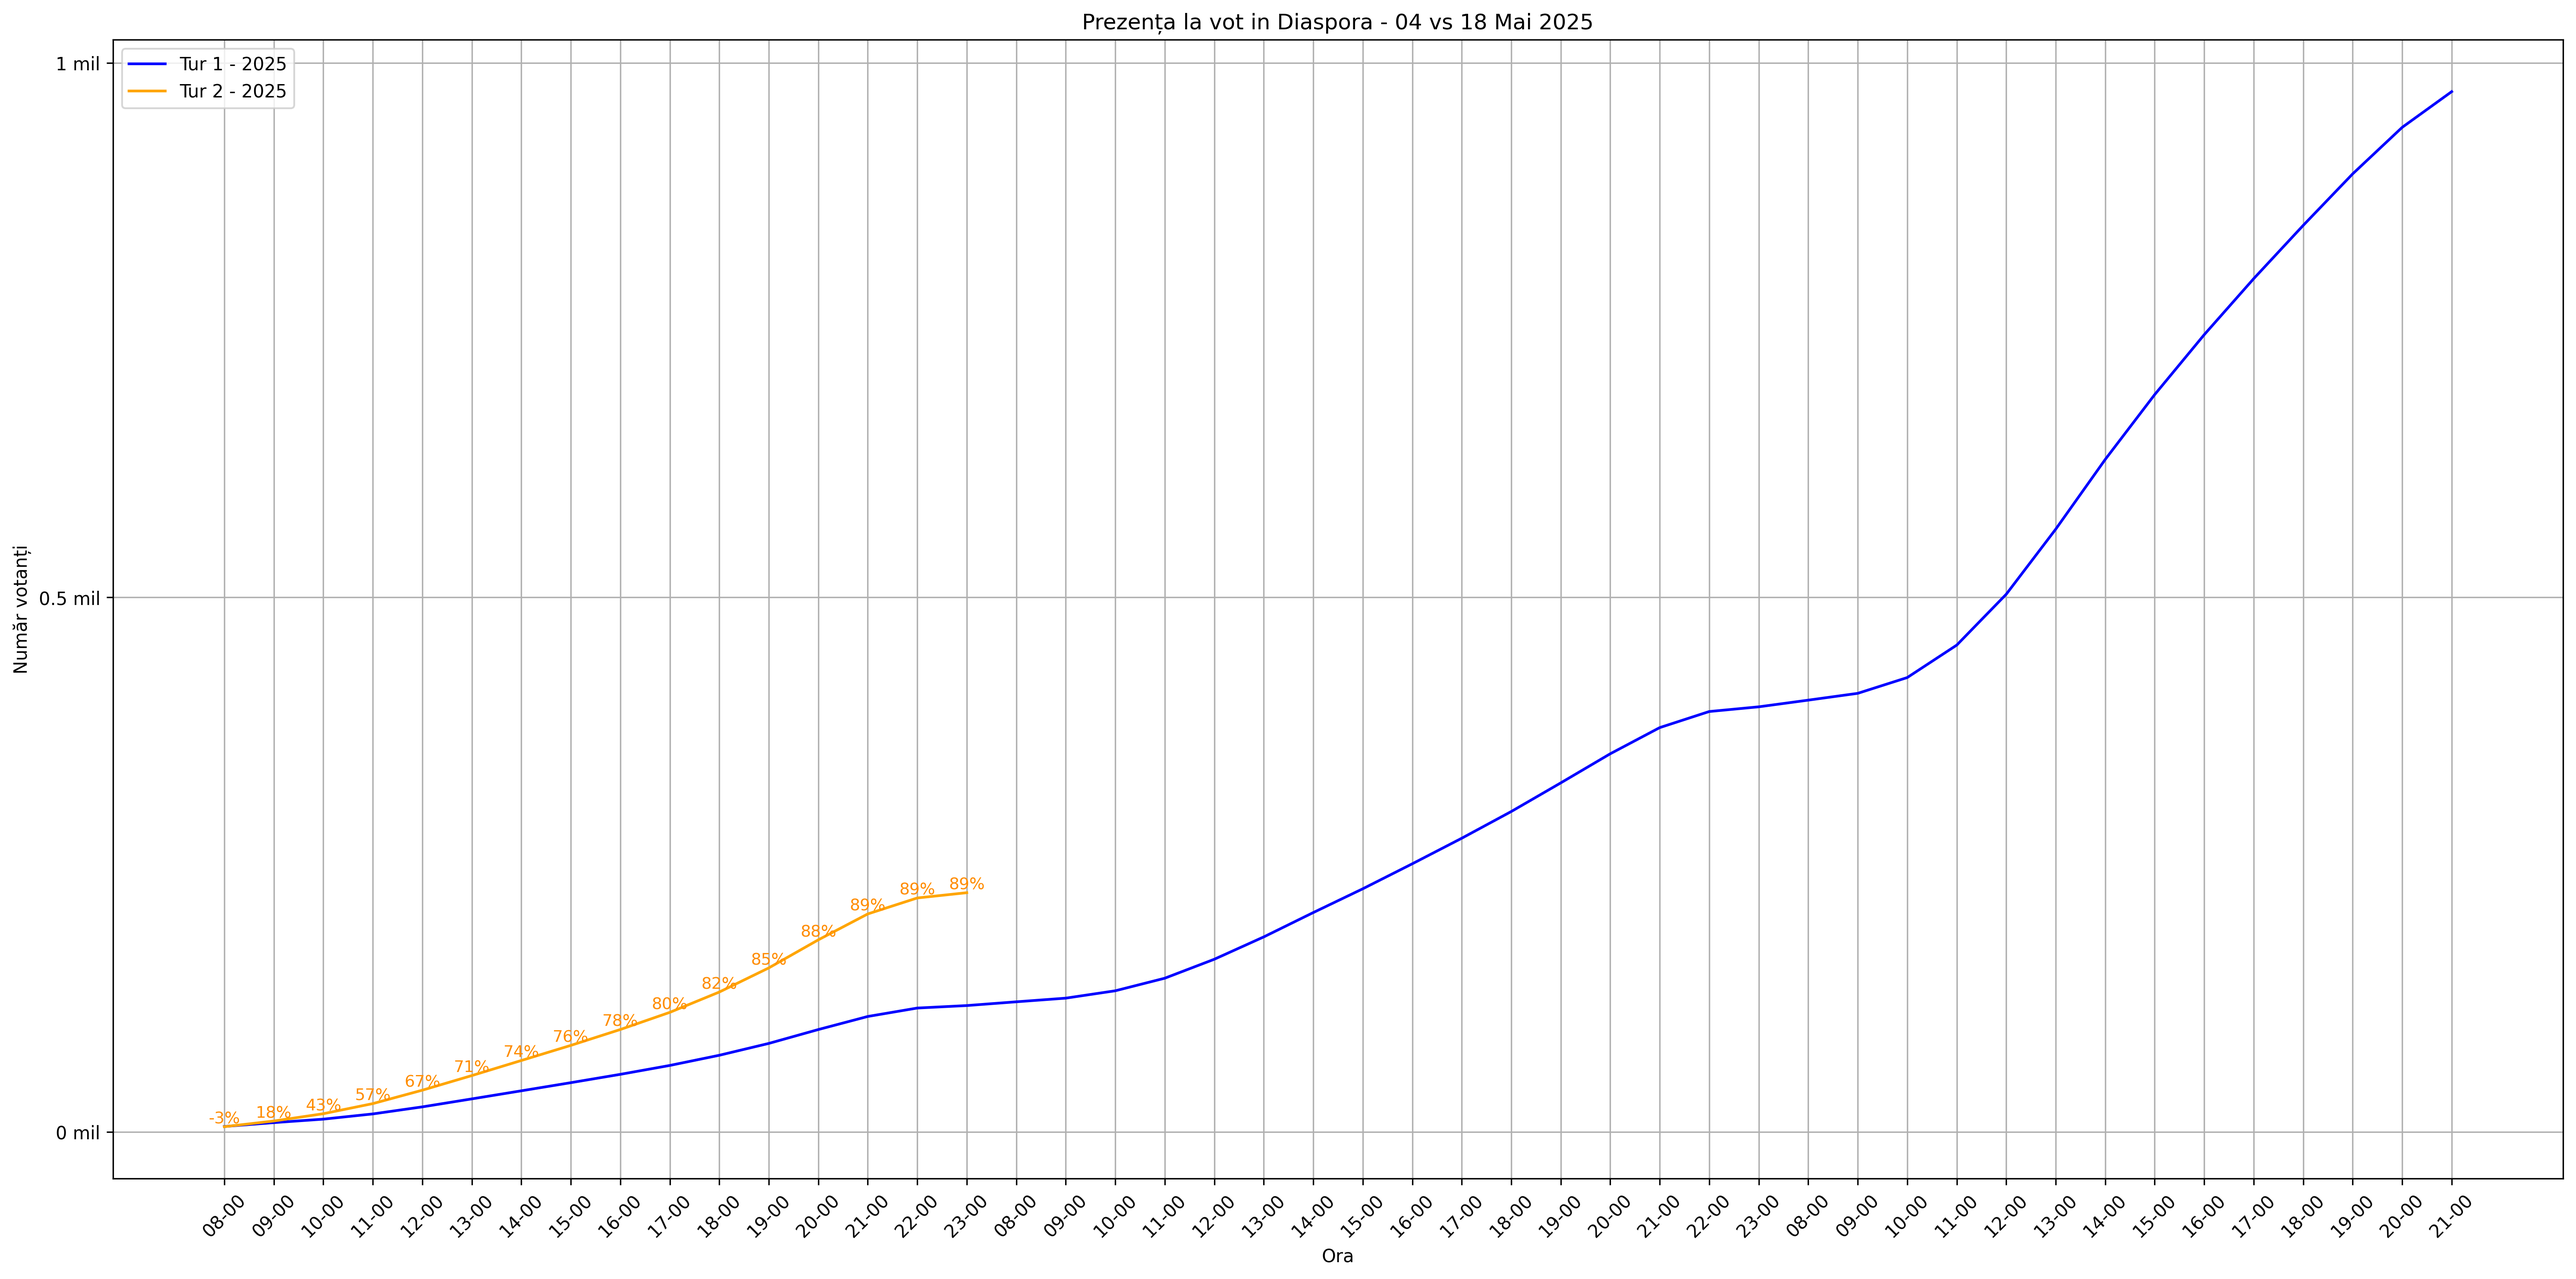
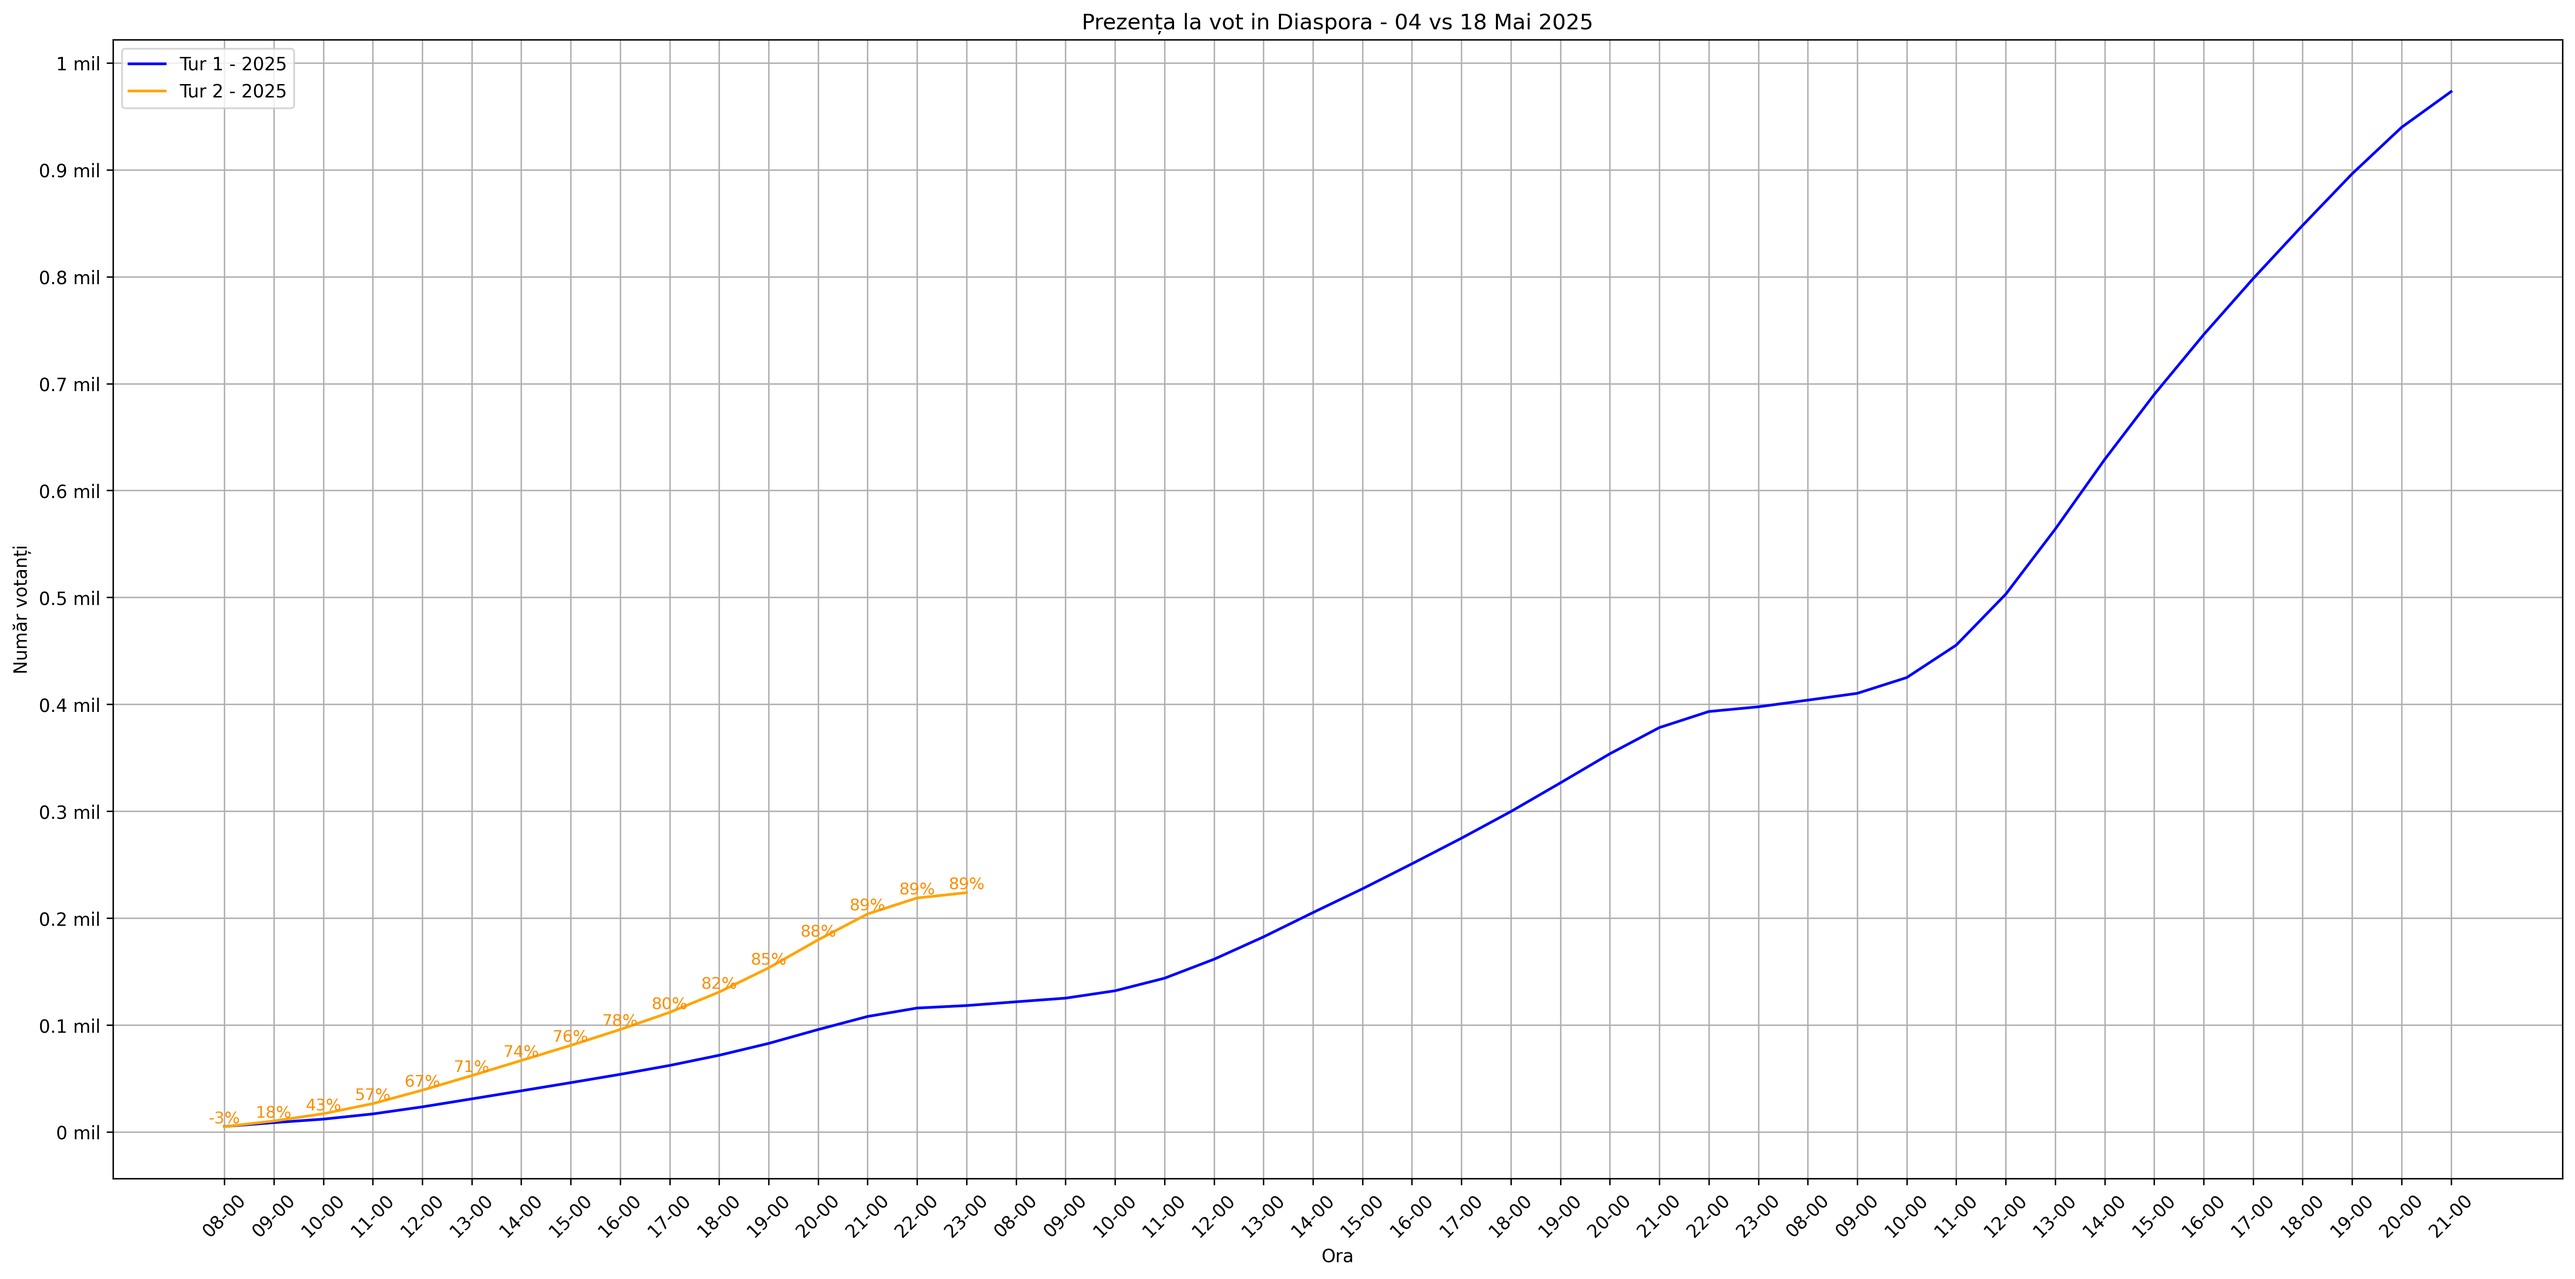
add countries

diff --git a/index.html b/index.html
@@ -60,5 +60,25 @@
     <img src="votanti_romania_2025.png" alt="Votanti Romania 2025" />
   </div>
 
+  <div class="image-container">
+    <img src="votanti_moldova_2025.png" alt="Votanti Romania 2025" />
+  </div>
+
+  <div class="image-container">
+    <img src="votanti_uk_2025.png" alt="Votanti Romania 2025" />
+  </div>
+
+  <div class="image-container">
+    <img src="votanti_italia_2025.png" alt="Votanti Romania 2025" />
+  </div>
+
+  <div class="image-container">
+    <img src="votanti_spania_2025.png" alt="Votanti Romania 2025" />
+  </div>
+
+  <div class="image-container">
+    <img src="votanti_franta_2025.png" alt="Votanti Romania 2025" />
+  </div>
+
 </body>
 </html>

diff --git a/main.py b/main.py
@@ -207,7 +207,7 @@ ax.set_xticks(range(len(timp_04052025)))
 ax.set_xticklabels(timp_04052025, rotation=45)
 
 max_v = max(max(votanti_04052025), max(votanti_18052025))
-yticks = np.arange(0, max_v + 500_000, 500_000)
+yticks = np.arange(0, max_v + 100_000, 100_000)
 ax.set_yticks(yticks)
 
 def mil_formatter(x, pos):
@@ -315,4 +315,339 @@ for i, (x, y, p) in enumerate(zip(range(min_len), vot2_trim, procent)):
 
 plt.tight_layout()
 plt.savefig('votanti_romania_2025.png', dpi=300, bbox_inches='tight')
+plt.clf()
+
+# Moldova
+
+# diaspora = 'SR'
+
+votanti_04052025 = []
+timp_04052025 = [path.split('.')[0].split('_')[2] for path in tur1_2025]
+
+for path in tur1_2025:
+    df = pl.read_csv(f'./data_total/04052025/{path}')
+    votanti_04052025.append(df.filter(pl.col('Judet') == 'SR').filter(pl.col('UAT') == "REPUBLICA MOLDOVA")['LT'].sum())
+
+votanti_18052025 = []
+timp_18052025 = [path.split('.')[0].split('_')[2] for path in tur2_2025]
+
+for path in tur2_2025:
+    df = pl.read_csv(f'./data_total/18052025/{path}')
+    votanti_18052025.append(df.filter(pl.col('Judet') == 'SR').filter(pl.col('UAT') == "REPUBLICA MOLDOVA")['LT'].sum())
+
+import matplotlib.pyplot as plt
+import numpy as np
+from matplotlib.ticker import FuncFormatter
+
+fig, ax = plt.subplots(figsize=(20, 10))
+
+# Plotezi liniile complet
+ax.plot(votanti_04052025, label='Tur 1 - 2025', color='blue')
+ax.plot(votanti_18052025, label='Tur 2 - 2025', color='orange')
+
+# Setezi xticks pentru întreaga lungime a axei X (maxim lungimea turului 1)
+ax.set_xticks(range(len(timp_04052025)))
+ax.set_xticklabels(timp_04052025, rotation=45)
+
+max_v = max(max(votanti_04052025), max(votanti_18052025))
+yticks = np.arange(0, max_v + 10_000, 10_000)
+ax.set_yticks(yticks)
+
+def mil_formatter(x, pos):
+    val = x / 1_000_000
+    if val == int(val):
+        return f"{int(val)} mil"
+    else:
+        return f"{val:.2f} mil"
+
+ax.yaxis.set_major_formatter(FuncFormatter(mil_formatter))
+
+ax.set_xlabel("Ora")
+ax.set_ylabel("Număr votanți")
+ax.set_title("Prezența la vot in Moldova - 04 vs 18 Mai 2025")
+ax.legend()
+ax.grid(True)
+
+# Calculezi procentajele doar pe intervalul comun (min_len)
+min_len = min(len(votanti_04052025), len(votanti_18052025))
+vot1_trim = np.array(votanti_04052025[:min_len])
+vot2_trim = np.array(votanti_18052025[:min_len])
+timp_trim = timp_04052025[:min_len]
+
+procent = (vot2_trim - vot1_trim) / vot1_trim * 100
+
+# Afișezi procentajele doar pentru punctele din intervalul comun
+for i, (x, y, p) in enumerate(zip(range(min_len), vot2_trim, procent)):
+    ax.text(x, y, f"{p:.0f}%", color='darkorange', fontsize=9, ha='center', va='bottom')
+
+plt.tight_layout()
+plt.savefig('votanti_moldova_2025.png', dpi=300, bbox_inches='tight')
+plt.clf()
+
+# UK
+
+# diaspora = 'SR'
+
+votanti_04052025 = []
+timp_04052025 = [path.split('.')[0].split('_')[2] for path in tur1_2025]
+
+for path in tur1_2025:
+    df = pl.read_csv(f'./data_total/04052025/{path}')
+    votanti_04052025.append(df.filter(pl.col('Judet') == 'SR').filter(pl.col('UAT') == "REGATUL UNIT AL MARII BRITANII ȘI AL IRLANDEI DE NORD")['LT'].sum())
+
+votanti_18052025 = []
+timp_18052025 = [path.split('.')[0].split('_')[2] for path in tur2_2025]
+
+for path in tur2_2025:
+    df = pl.read_csv(f'./data_total/18052025/{path}')
+    votanti_18052025.append(df.filter(pl.col('Judet') == 'SR').filter(pl.col('UAT') == "REGATUL UNIT AL MARII BRITANII ȘI AL IRLANDEI DE NORD")['LT'].sum())
+
+import matplotlib.pyplot as plt
+import numpy as np
+from matplotlib.ticker import FuncFormatter
+
+fig, ax = plt.subplots(figsize=(20, 10))
+
+# Plotezi liniile complet
+ax.plot(votanti_04052025, label='Tur 1 - 2025', color='blue')
+ax.plot(votanti_18052025, label='Tur 2 - 2025', color='orange')
+
+# Setezi xticks pentru întreaga lungime a axei X (maxim lungimea turului 1)
+ax.set_xticks(range(len(timp_04052025)))
+ax.set_xticklabels(timp_04052025, rotation=45)
+
+max_v = max(max(votanti_04052025), max(votanti_18052025))
+yticks = np.arange(0, max_v + 10_000, 10_000)
+ax.set_yticks(yticks)
+
+def mil_formatter(x, pos):
+    val = x / 1_000_000
+    if val == int(val):
+        return f"{int(val)} mil"
+    else:
+        return f"{val:.2f} mil"
+
+ax.yaxis.set_major_formatter(FuncFormatter(mil_formatter))
+
+ax.set_xlabel("Ora")
+ax.set_ylabel("Număr votanți")
+ax.set_title("Prezența la vot in UK - 04 vs 18 Mai 2025")
+ax.legend()
+ax.grid(True)
+
+# Calculezi procentajele doar pe intervalul comun (min_len)
+min_len = min(len(votanti_04052025), len(votanti_18052025))
+vot1_trim = np.array(votanti_04052025[:min_len])
+vot2_trim = np.array(votanti_18052025[:min_len])
+timp_trim = timp_04052025[:min_len]
+
+procent = (vot2_trim - vot1_trim) / vot1_trim * 100
+
+# Afișezi procentajele doar pentru punctele din intervalul comun
+for i, (x, y, p) in enumerate(zip(range(min_len), vot2_trim, procent)):
+    ax.text(x, y, f"{p:.0f}%", color='darkorange', fontsize=9, ha='center', va='bottom')
+
+plt.tight_layout()
+plt.savefig('votanti_uk_2025.png', dpi=300, bbox_inches='tight')
+plt.clf()
+
+# Italia
+
+# diaspora = 'SR'
+
+votanti_04052025 = []
+timp_04052025 = [path.split('.')[0].split('_')[2] for path in tur1_2025]
+
+for path in tur1_2025:
+    df = pl.read_csv(f'./data_total/04052025/{path}')
+    votanti_04052025.append(df.filter(pl.col('Judet') == 'SR').filter(pl.col('UAT') == "ITALIA")['LT'].sum())
+
+votanti_18052025 = []
+timp_18052025 = [path.split('.')[0].split('_')[2] for path in tur2_2025]
+
+for path in tur2_2025:
+    df = pl.read_csv(f'./data_total/18052025/{path}')
+    votanti_18052025.append(df.filter(pl.col('Judet') == 'SR').filter(pl.col('UAT') == "ITALIA")['LT'].sum())
+
+import matplotlib.pyplot as plt
+import numpy as np
+from matplotlib.ticker import FuncFormatter
+
+fig, ax = plt.subplots(figsize=(20, 10))
+
+# Plotezi liniile complet
+ax.plot(votanti_04052025, label='Tur 1 - 2025', color='blue')
+ax.plot(votanti_18052025, label='Tur 2 - 2025', color='orange')
+
+# Setezi xticks pentru întreaga lungime a axei X (maxim lungimea turului 1)
+ax.set_xticks(range(len(timp_04052025)))
+ax.set_xticklabels(timp_04052025, rotation=45)
+
+max_v = max(max(votanti_04052025), max(votanti_18052025))
+yticks = np.arange(0, max_v + 10_000, 10_000)
+ax.set_yticks(yticks)
+
+def mil_formatter(x, pos):
+    val = x / 1_000_000
+    if val == int(val):
+        return f"{int(val)} mil"
+    else:
+        return f"{val:.2f} mil"
+
+ax.yaxis.set_major_formatter(FuncFormatter(mil_formatter))
+
+ax.set_xlabel("Ora")
+ax.set_ylabel("Număr votanți")
+ax.set_title("Prezența la vot in Italia - 04 vs 18 Mai 2025")
+ax.legend()
+ax.grid(True)
+
+# Calculezi procentajele doar pe intervalul comun (min_len)
+min_len = min(len(votanti_04052025), len(votanti_18052025))
+vot1_trim = np.array(votanti_04052025[:min_len])
+vot2_trim = np.array(votanti_18052025[:min_len])
+timp_trim = timp_04052025[:min_len]
+
+procent = (vot2_trim - vot1_trim) / vot1_trim * 100
+
+# Afișezi procentajele doar pentru punctele din intervalul comun
+for i, (x, y, p) in enumerate(zip(range(min_len), vot2_trim, procent)):
+    ax.text(x, y, f"{p:.0f}%", color='darkorange', fontsize=9, ha='center', va='bottom')
+
+plt.tight_layout()
+plt.savefig('votanti_italia_2025.png', dpi=300, bbox_inches='tight')
+plt.clf()
+
+# Spania
+
+# diaspora = 'SR'
+
+votanti_04052025 = []
+timp_04052025 = [path.split('.')[0].split('_')[2] for path in tur1_2025]
+
+for path in tur1_2025:
+    df = pl.read_csv(f'./data_total/04052025/{path}')
+    votanti_04052025.append(df.filter(pl.col('Judet') == 'SR').filter(pl.col('UAT') == "SPANIA")['LT'].sum())
+
+votanti_18052025 = []
+timp_18052025 = [path.split('.')[0].split('_')[2] for path in tur2_2025]
+
+for path in tur2_2025:
+    df = pl.read_csv(f'./data_total/18052025/{path}')
+    votanti_18052025.append(df.filter(pl.col('Judet') == 'SR').filter(pl.col('UAT') == "SPANIA")['LT'].sum())
+
+import matplotlib.pyplot as plt
+import numpy as np
+from matplotlib.ticker import FuncFormatter
+
+fig, ax = plt.subplots(figsize=(20, 10))
+
+# Plotezi liniile complet
+ax.plot(votanti_04052025, label='Tur 1 - 2025', color='blue')
+ax.plot(votanti_18052025, label='Tur 2 - 2025', color='orange')
+
+# Setezi xticks pentru întreaga lungime a axei X (maxim lungimea turului 1)
+ax.set_xticks(range(len(timp_04052025)))
+ax.set_xticklabels(timp_04052025, rotation=45)
+
+max_v = max(max(votanti_04052025), max(votanti_18052025))
+yticks = np.arange(0, max_v + 10_000, 10_000)
+ax.set_yticks(yticks)
+
+def mil_formatter(x, pos):
+    val = x / 1_000_000
+    if val == int(val):
+        return f"{int(val)} mil"
+    else:
+        return f"{val:.2f} mil"
+
+ax.yaxis.set_major_formatter(FuncFormatter(mil_formatter))
+
+ax.set_xlabel("Ora")
+ax.set_ylabel("Număr votanți")
+ax.set_title("Prezența la vot in Spania - 04 vs 18 Mai 2025")
+ax.legend()
+ax.grid(True)
+
+# Calculezi procentajele doar pe intervalul comun (min_len)
+min_len = min(len(votanti_04052025), len(votanti_18052025))
+vot1_trim = np.array(votanti_04052025[:min_len])
+vot2_trim = np.array(votanti_18052025[:min_len])
+timp_trim = timp_04052025[:min_len]
+
+procent = (vot2_trim - vot1_trim) / vot1_trim * 100
+
+# Afișezi procentajele doar pentru punctele din intervalul comun
+for i, (x, y, p) in enumerate(zip(range(min_len), vot2_trim, procent)):
+    ax.text(x, y, f"{p:.0f}%", color='darkorange', fontsize=9, ha='center', va='bottom')
+
+plt.tight_layout()
+plt.savefig('votanti_spania_2025.png', dpi=300, bbox_inches='tight')
+plt.clf()
+
+# Franta
+
+# diaspora = 'SR'
+
+votanti_04052025 = []
+timp_04052025 = [path.split('.')[0].split('_')[2] for path in tur1_2025]
+
+for path in tur1_2025:
+    df = pl.read_csv(f'./data_total/04052025/{path}')
+    votanti_04052025.append(df.filter(pl.col('Judet') == 'SR').filter(pl.col('UAT') == "FRANȚA")['LT'].sum())
+
+votanti_18052025 = []
+timp_18052025 = [path.split('.')[0].split('_')[2] for path in tur2_2025]
+
+for path in tur2_2025:
+    df = pl.read_csv(f'./data_total/18052025/{path}')
+    votanti_18052025.append(df.filter(pl.col('Judet') == 'SR').filter(pl.col('UAT') == "FRANȚA")['LT'].sum())
+
+import matplotlib.pyplot as plt
+import numpy as np
+from matplotlib.ticker import FuncFormatter
+
+fig, ax = plt.subplots(figsize=(20, 10))
+
+# Plotezi liniile complet
+ax.plot(votanti_04052025, label='Tur 1 - 2025', color='blue')
+ax.plot(votanti_18052025, label='Tur 2 - 2025', color='orange')
+
+# Setezi xticks pentru întreaga lungime a axei X (maxim lungimea turului 1)
+ax.set_xticks(range(len(timp_04052025)))
+ax.set_xticklabels(timp_04052025, rotation=45)
+
+max_v = max(max(votanti_04052025), max(votanti_18052025))
+yticks = np.arange(0, max_v + 10_000, 10_000)
+ax.set_yticks(yticks)
+
+def mil_formatter(x, pos):
+    val = x / 1_000_000
+    if val == int(val):
+        return f"{int(val)} mil"
+    else:
+        return f"{val:.2f} mil"
+
+ax.yaxis.set_major_formatter(FuncFormatter(mil_formatter))
+
+ax.set_xlabel("Ora")
+ax.set_ylabel("Număr votanți")
+ax.set_title("Prezența la vot in Franta - 04 vs 18 Mai 2025")
+ax.legend()
+ax.grid(True)
+
+# Calculezi procentajele doar pe intervalul comun (min_len)
+min_len = min(len(votanti_04052025), len(votanti_18052025))
+vot1_trim = np.array(votanti_04052025[:min_len])
+vot2_trim = np.array(votanti_18052025[:min_len])
+timp_trim = timp_04052025[:min_len]
+
+procent = (vot2_trim - vot1_trim) / vot1_trim * 100
+
+# Afișezi procentajele doar pentru punctele din intervalul comun
+for i, (x, y, p) in enumerate(zip(range(min_len), vot2_trim, procent)):
+    ax.text(x, y, f"{p:.0f}%", color='darkorange', fontsize=9, ha='center', va='bottom')
+
+plt.tight_layout()
+plt.savefig('votanti_franta_2025.png', dpi=300, bbox_inches='tight')
 plt.clf()
